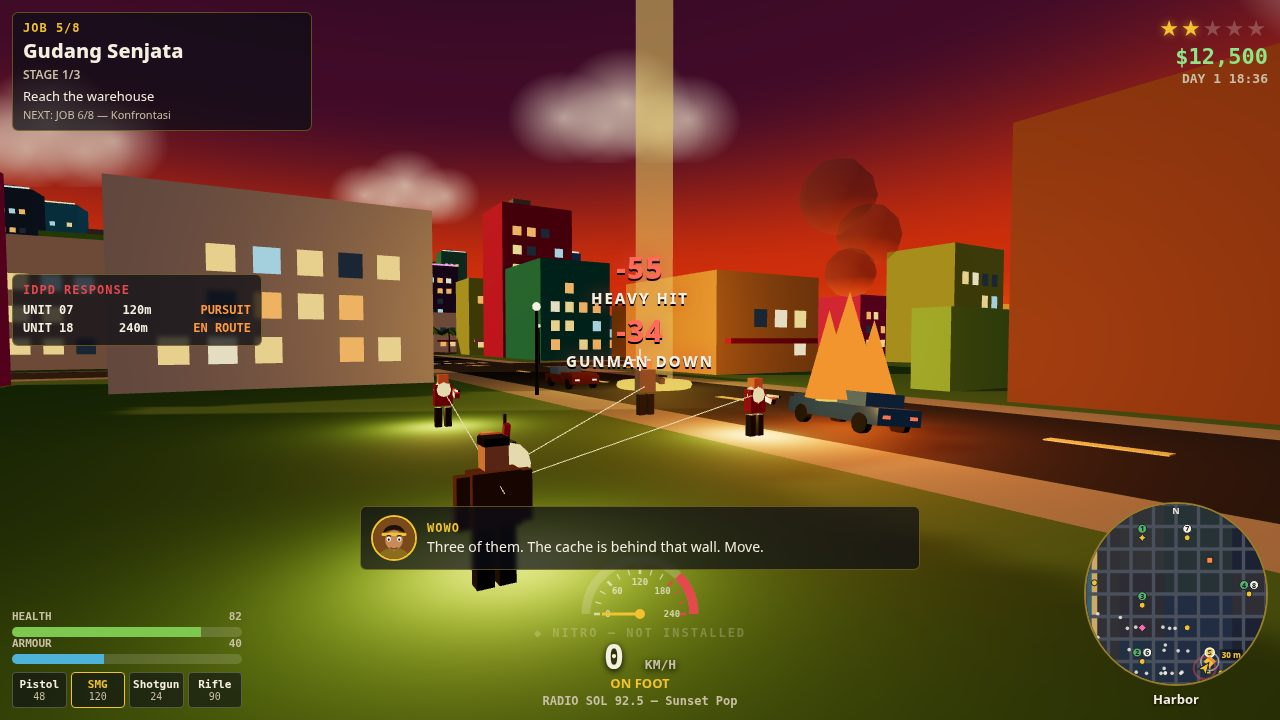
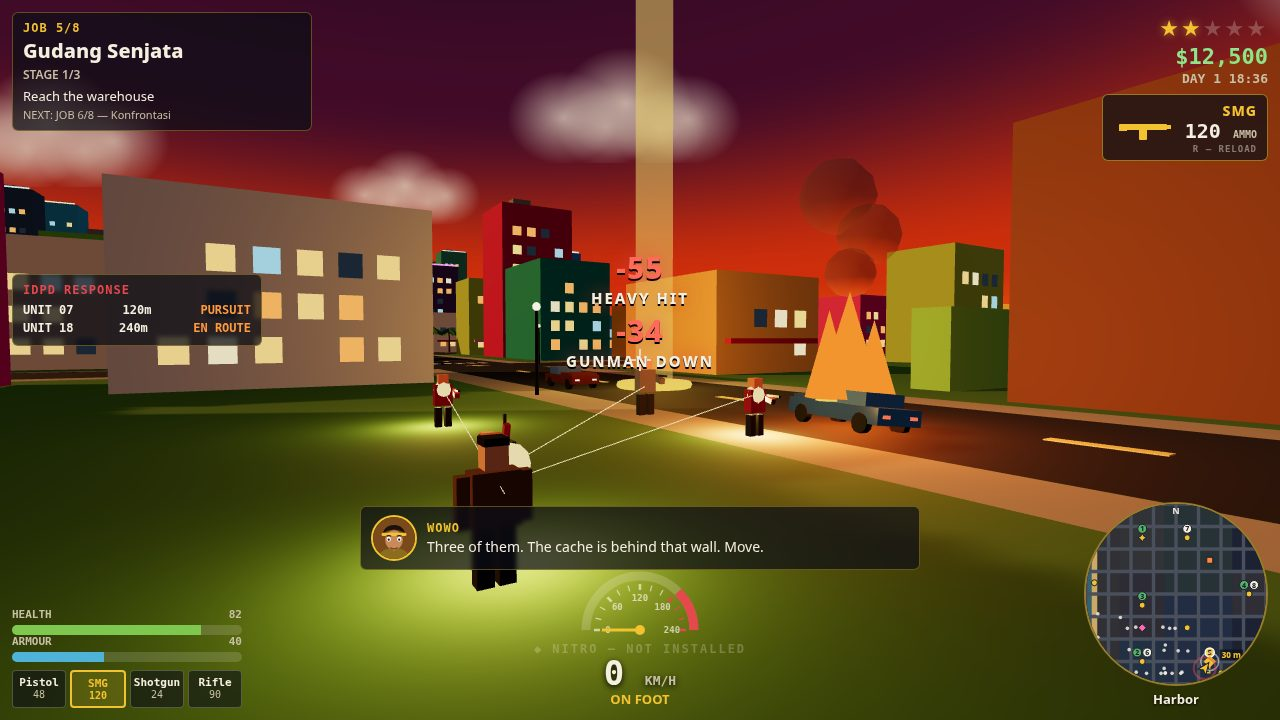
HUD GTA-style (recording #9): radio badge in-car + top-right weapon panel with ammo, loadout highlight

Changed region(s): [[0.4062, 0.7944, 0.5938, 0.9778], [0.0, 0.8556, 0.1875, 1.0], [0.8438, 0.1222, 1.0, 0.2444]]

diff --git a/game/src/hud.js b/game/src/hud.js
@@ -90,6 +90,37 @@ export function portraitSVG(speaker) {
     + `</svg>`;
 }
 
+// ---------------------------------------------------------------- weapon art
+// Flat, drawn SVG weapon silhouettes — original geometric art, no images.
+// Each is a 64x28 viewBox gun profile in gold; readable at ~60 px wide.
+// Used by the GTA-style top-right weapon panel (current weapon + ammo).
+function weaponSVG(name) {
+  const n = String(name || '').toUpperCase();
+  const gold = '#f2c230';
+  let body = '';
+  if (n.includes('PISTOL')) {
+    body = `<rect x="10" y="9" width="34" height="6" rx="1" fill="${gold}"/>`
+      + `<rect x="30" y="14" width="9" height="12" rx="1" fill="${gold}"/>`
+      + `<rect x="42" y="10" width="4" height="4" fill="${gold}"/>`;
+  } else if (n.includes('SMG')) {
+    body = `<rect x="6" y="10" width="48" height="6" rx="1" fill="${gold}"/>`
+      + `<rect x="26" y="15" width="8" height="11" rx="1" fill="${gold}"/>`
+      + `<rect x="6" y="12" width="8" height="5" fill="${gold}"/>`
+      + `<rect x="52" y="11" width="6" height="4" fill="${gold}"/>`;
+  } else if (n.includes('SHOTGUN')) {
+    body = `<rect x="4" y="10" width="56" height="4" rx="1" fill="${gold}"/>`
+      + `<rect x="30" y="14" width="14" height="4" fill="${gold}"/>`
+      + `<rect x="4" y="13" width="12" height="7" rx="1" fill="${gold}"/>`
+      + `<rect x="14" y="14" width="8" height="4" fill="${gold}"/>`;
+  } else { // Rifle
+    body = `<rect x="4" y="10" width="56" height="4" rx="1" fill="${gold}"/>`
+      + `<rect x="30" y="5" width="14" height="5" rx="1" fill="${gold}"/>`
+      + `<rect x="26" y="14" width="8" height="11" rx="1" fill="${gold}"/>`
+      + `<rect x="4" y="12" width="10" height="7" rx="1" fill="${gold}"/>`;
+  }
+  return `<svg viewBox="0 0 64 28" width="64" height="28" aria-hidden="true">${body}</svg>`;
+}
+
 // ---------------------------------------------------------------- formatting
 function $(id) {
   return document.getElementById(id);
@@ -149,7 +180,22 @@ function injectHudStyle() {
 #nitro-lamp { font: 800 12px ui-monospace, Menlo, monospace; letter-spacing: 2px; color: rgba(245,239,224,.25); margin-top: 2px; }
 #nitro-lamp.on { color: #ff9a3c; text-shadow: 0 0 10px rgba(255,154,60,.9); }
 #dialogue-portrait svg { display: block; border-radius: 50%; }
-.char .face svg { display: block; border-radius: 50%; }`;
+.char .face svg { display: block; border-radius: 50%; }
+/* GTA-style radio badge (in-car notification, top-left under the mission
+   panel) + top-right weapon panel (current weapon + ammo, GTA layout). */
+#radio { display: none; }
+#radio-badge { position: absolute; left: 12px; top: 178px; background: var(--panel); border: 1px solid rgba(242,194,48,.55); border-radius: 6px; padding: 7px 12px; min-width: 230px; }
+#radio-badge .rb-name { font: 800 15px var(--font-ui); color: var(--gold); letter-spacing: 1px; }
+#radio-badge .rb-sub { font: 600 11px var(--font-read); color: var(--muted); margin-top: 2px; }
+#radio-badge .rb-hint { font: 600 9px var(--font-read); color: rgba(245,239,224,.45); letter-spacing: 1px; margin-top: 3px; }
+#weapon-panel { display: flex; gap: 8px; align-items: center; justify-content: flex-end; background: var(--panel); border: 1px solid rgba(242,194,48,.55); border-radius: 6px; padding: 6px 10px; margin-top: 8px; }
+#weapon-panel .wp-name { font: 800 14px var(--font-ui); color: var(--gold); letter-spacing: 1px; text-align: right; }
+#weapon-panel .wp-ammo { font: 800 20px var(--font-read); color: var(--ink); text-align: right; line-height: 1.1; }
+#weapon-panel .wp-ammo small { font-size: 10px; color: var(--muted); }
+#weapon-panel .wp-hint { font: 600 9px var(--font-read); color: rgba(245,239,224,.45); letter-spacing: 1px; text-align: right; margin-top: 2px; }
+#weapon-panel .wp-sil svg { display: block; }
+.wslot.active { border-color: var(--gold); border-width: 2px; color: var(--gold); background: rgba(242,194,48,.16); }
+.wslot.active .ammo { color: var(--gold); font-weight: 700; }`;
   document.head.appendChild(st);
 }
 
@@ -354,6 +400,32 @@ export function initHUD(G) {
   gaugeCtx = gaugeEl ? gaugeEl.getContext('2d') : null;
   el.nitroLamp = $('nitro-lamp');
 
+  // GTA-style top-right weapon panel (current weapon + ammo), under money/clock.
+  const topRight = $('top-right');
+  if (topRight && !$('weapon-panel')) {
+    const wp = document.createElement('div');
+    wp.id = 'weapon-panel';
+    wp.innerHTML = '<div class="wp-sil"></div><div><div class="wp-name"></div><div class="wp-ammo"></div><div class="wp-hint">R — RELOAD</div></div>';
+    topRight.appendChild(wp);
+  }
+  el.weaponPanel = $('weapon-panel');
+  el.wpSil = el.weaponPanel ? el.weaponPanel.querySelector('.wp-sil') : null;
+  el.wpName = el.weaponPanel ? el.weaponPanel.querySelector('.wp-name') : null;
+  el.wpAmmo = el.weaponPanel ? el.weaponPanel.querySelector('.wp-ammo') : null;
+
+  // GTA-style radio badge (in-car notification, top-left under the mission
+  // panel): station name + genre/BPM + switch hint. Replaces the small
+  // drive-panel radio line (hidden by CSS above).
+  if (hud && !$('radio-badge')) {
+    const rb = document.createElement('div');
+    rb.id = 'radio-badge';
+    rb.innerHTML = '<div class="rb-name"></div><div class="rb-sub"></div><div class="rb-hint">R — CHANGE STATION</div>';
+    hud.appendChild(rb);
+  }
+  el.radioBadge = $('radio-badge');
+  el.rbName = el.radioBadge ? el.radioBadge.querySelector('.rb-name') : null;
+  el.rbSub = el.radioBadge ? el.radioBadge.querySelector('.rb-sub') : null;
+
   // Build the 4 weapon-rack slots once from WEAPONS.
   weaponSlots = [];
   if (el.weaponRack) {
@@ -461,6 +533,21 @@ export function renderHUD(G) {
     }
   });
 
+  // --- GTA-style top-right weapon panel: current weapon + ammo ---
+  if (el.weaponPanel) {
+    const w = (G.combat && G.combat.weapons && G.combat.weapons[wi])
+      ? G.combat.weapons[wi] : WEAPONS[wi];
+    const wammo = (G.combat && G.combat.weapons && G.combat.weapons[wi])
+      ? G.combat.weapons[wi].ammo : WEAPONS[wi].ammo;
+    const wsig = `${wi}|${wammo}`;
+    if (last.wpSig !== wsig) {
+      last.wpSig = wsig;
+      if (el.wpSil) el.wpSil.innerHTML = weaponSVG(w.name);
+      if (el.wpName) el.wpName.textContent = String(w.name || '').toUpperCase();
+      if (el.wpAmmo) el.wpAmmo.innerHTML = `${wammo} <small>AMMO</small>`;
+    }
+  }
+
   // --- drive panel: gauge + digital speed + nitro lamp ---
   const inCar = p.mode === 'car' && G.driving && G.driving.car;
   const speedMs = inCar ? Math.abs(G.driving.speed || 0) : Math.abs(p.speed || 0);
@@ -482,7 +569,22 @@ export function renderHUD(G) {
   setText(el.vehicleName, 'vname', vname);
   const ri = (G.audio && typeof G.audio.radioIndex === 'number') ? G.audio.radioIndex : 0;
   const station = RADIO[ri] || RADIO[0];
-  setText(el.radio, 'radio', `${station.name} — ${station.genre}`);
+  // Radio badge (in-car only, GTA-style notification): station + genre/BPM.
+  if (el.radioBadge) {
+    const showRadio = inCar;
+    if (last.radioVisible !== showRadio) {
+      last.radioVisible = showRadio;
+      el.radioBadge.classList.toggle('hidden', !showRadio);
+    }
+    if (showRadio) {
+      const rsig = `${ri}`;
+      if (last.radioSig !== rsig) {
+        last.radioSig = rsig;
+        if (el.rbName) el.rbName.textContent = `♪ ${station.name}`;
+        if (el.rbSub) el.rbSub.textContent = `${station.genre} · ${station.bpm} BPM`;
+      }
+    }
+  }
 
   // --- score popups from gameplay state (drift / near-miss / queued events) ---
   pollScoreEvents(G);
